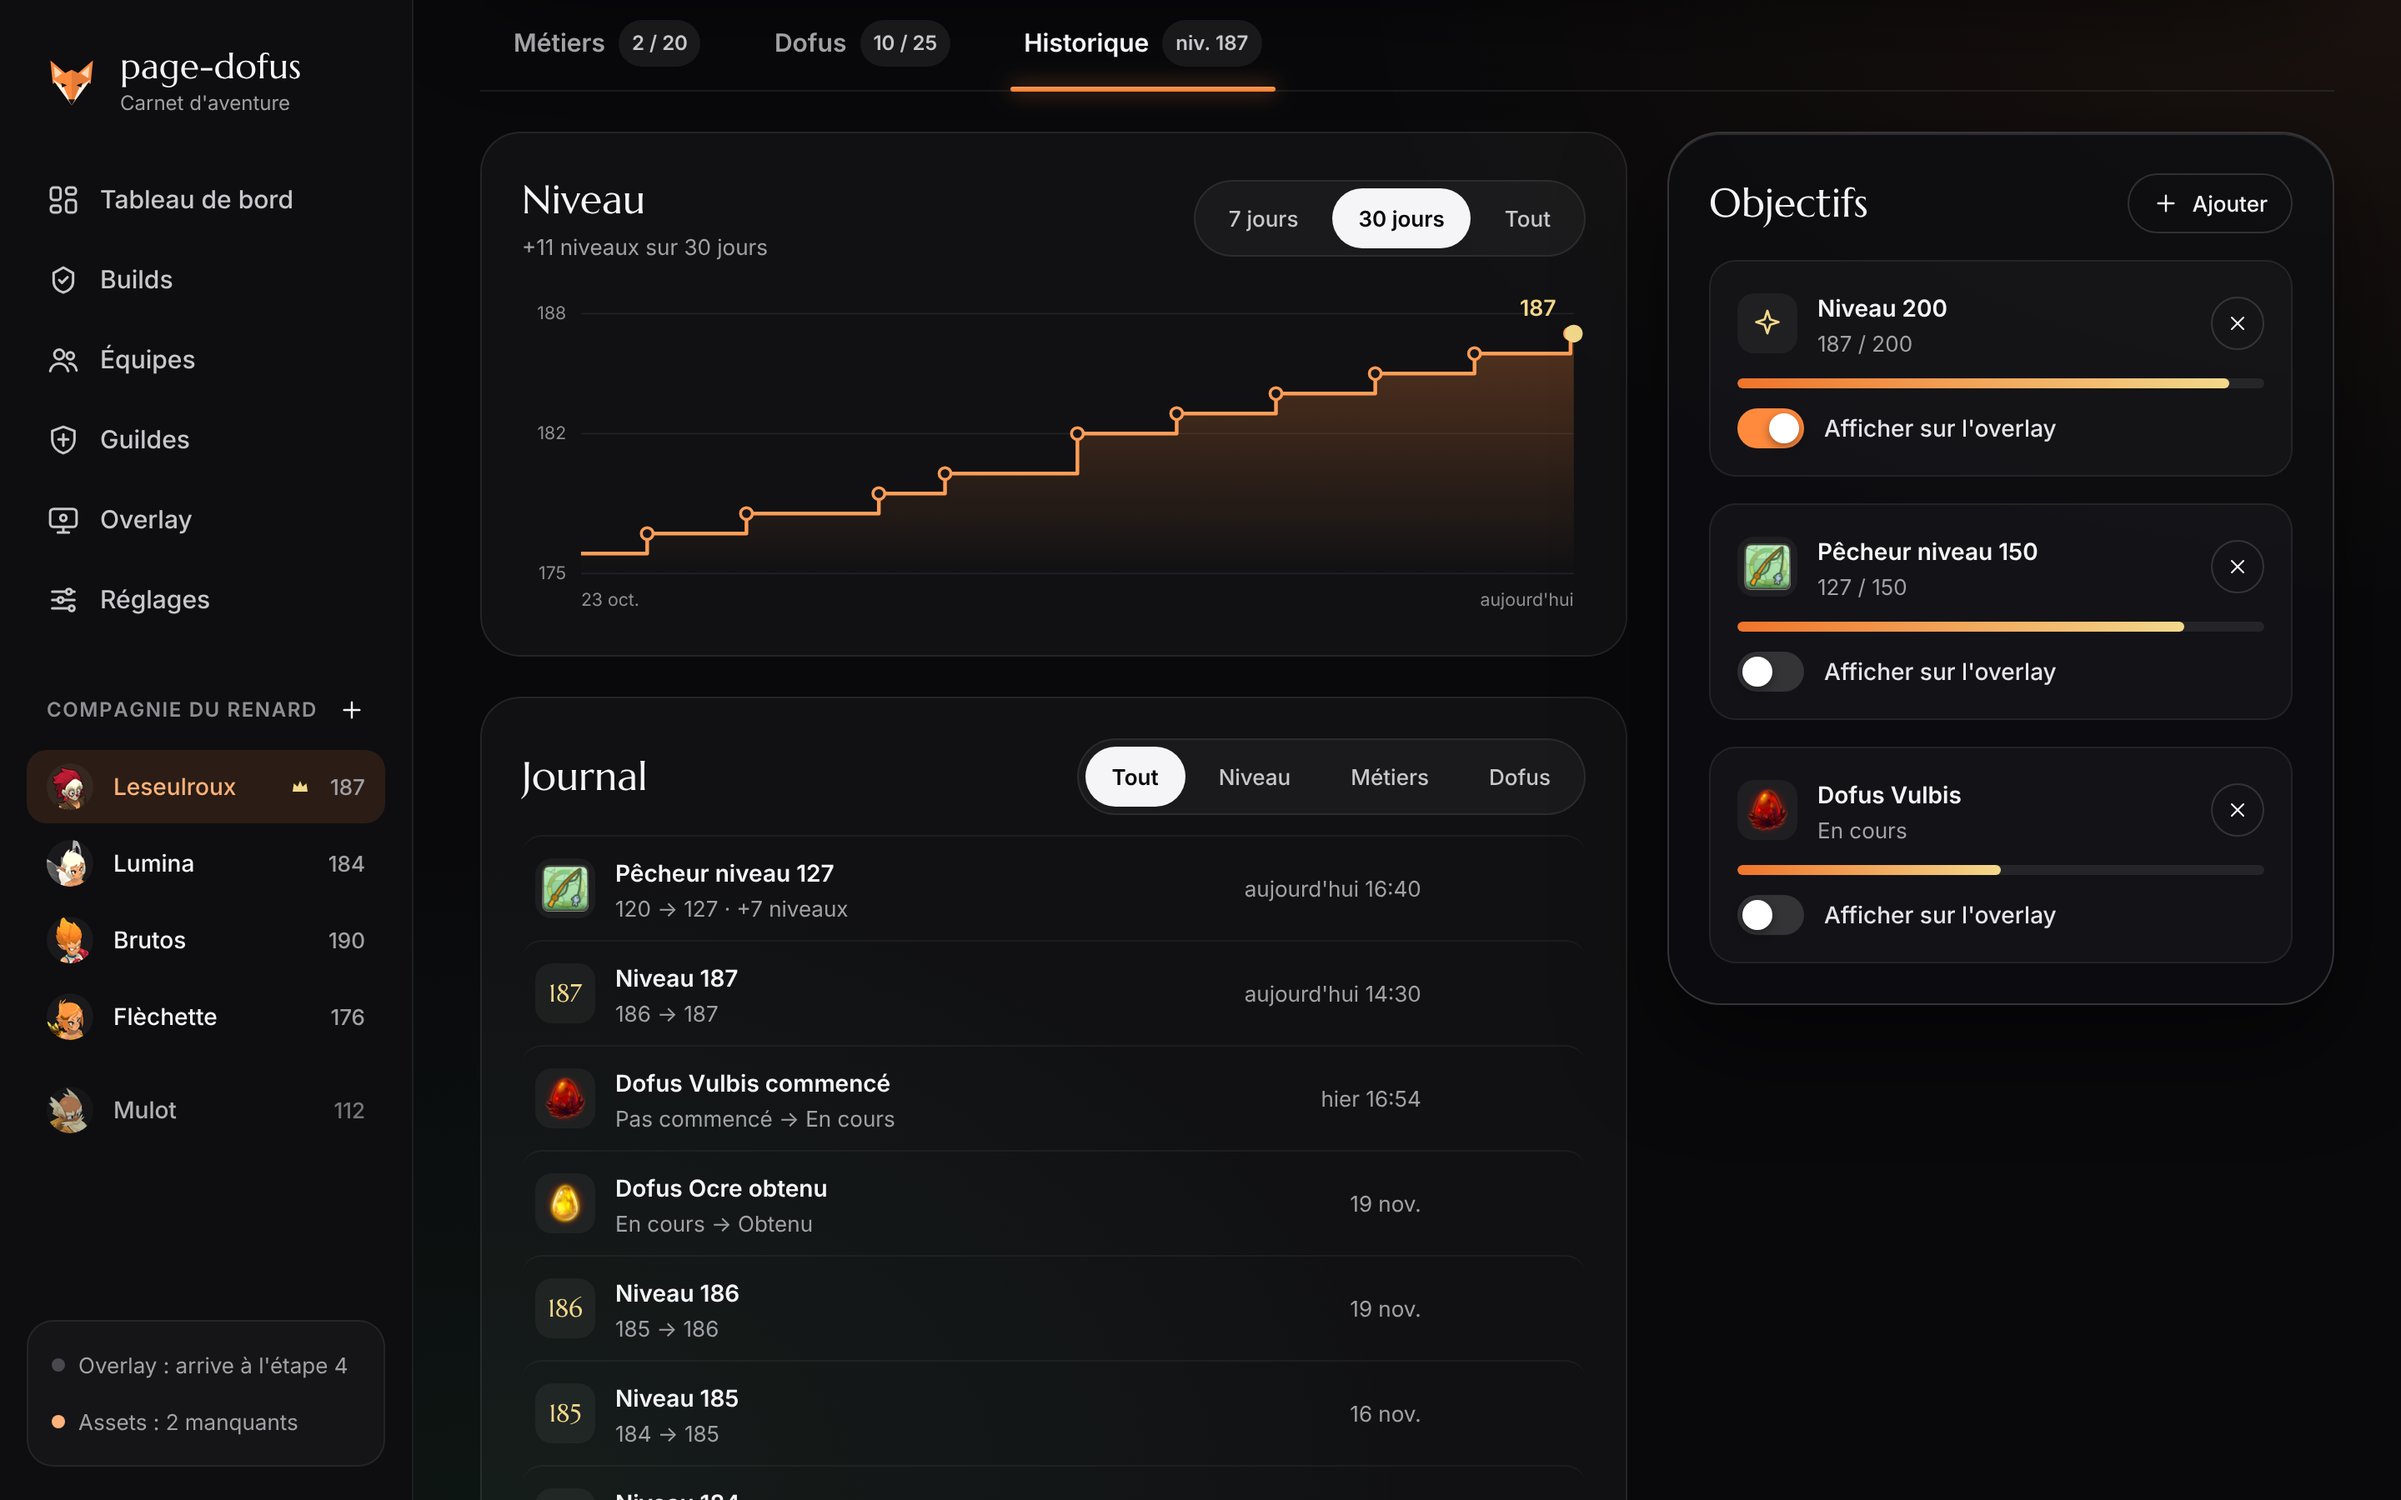
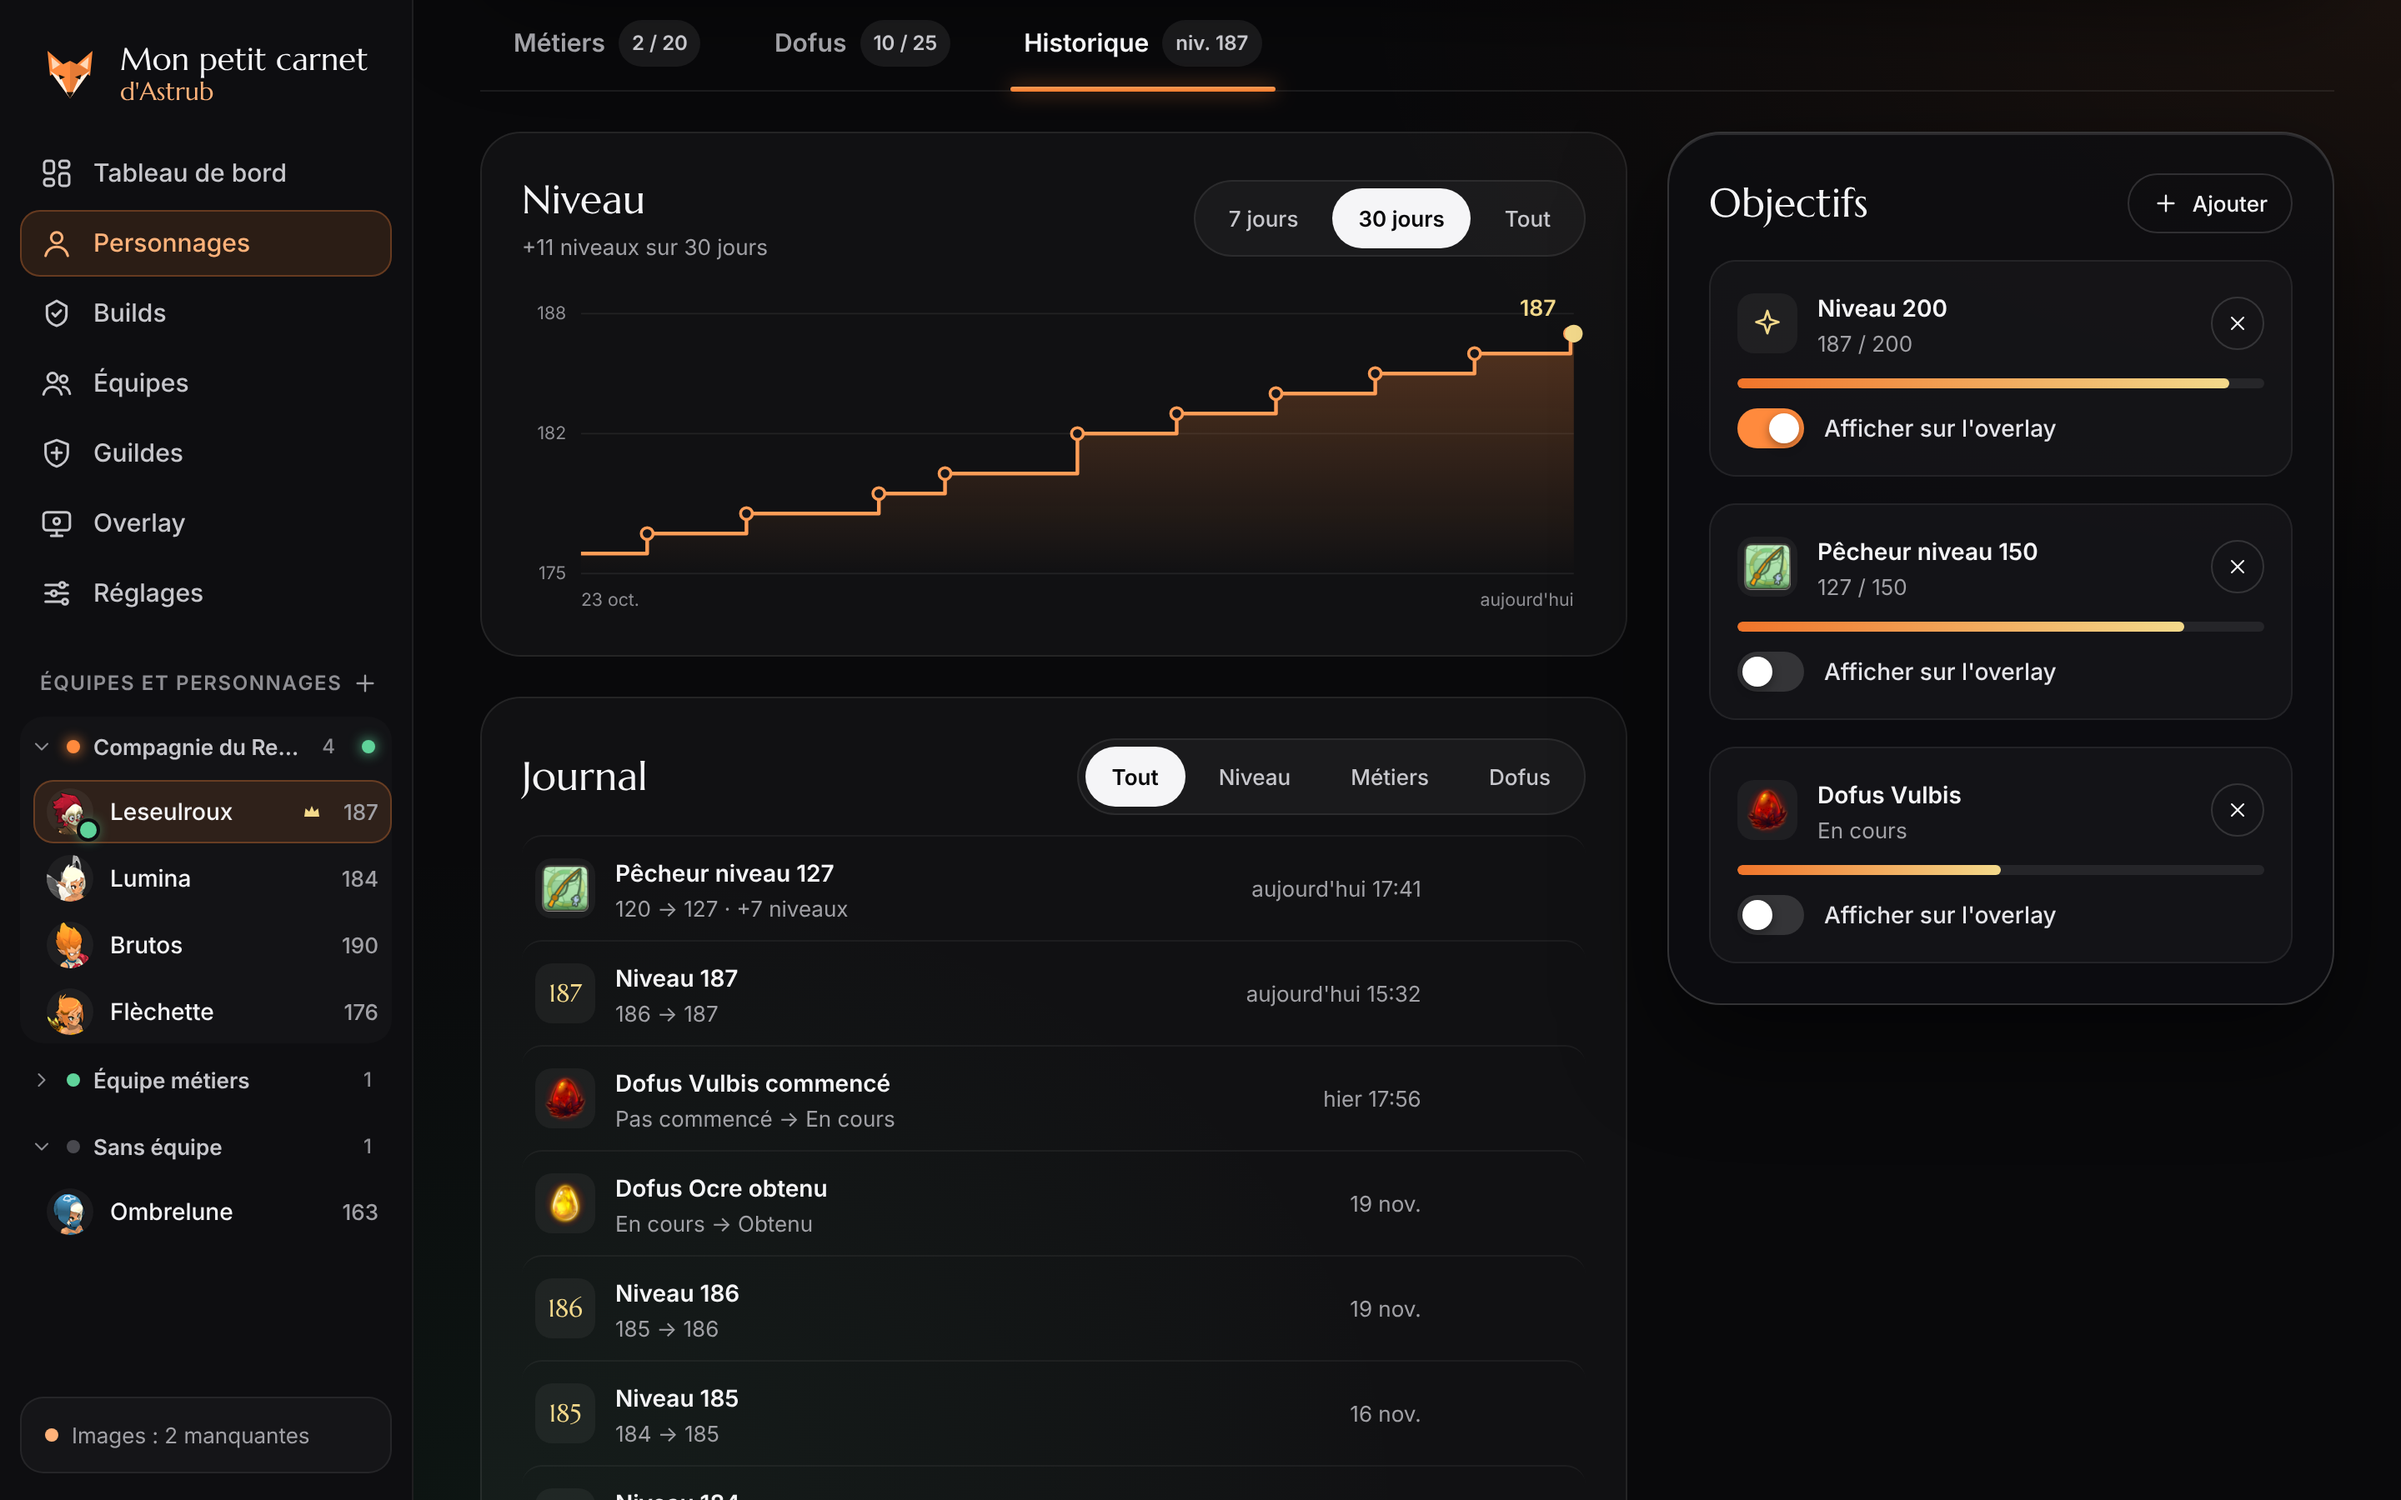
update readme and captures

diff --git a/README.md b/README.md
@@ -2,7 +2,7 @@
   <img src="captures/icone.png" width="96" alt="">
 </p>
 
-<h1 align="center">page-dofus</h1>
+<h1 align="center">Mon petit carnet d'Astrub</h1>
 
 <p align="center">
   Le carnet d'aventure Dofus de <a href="https://twitch.tv/leseulrouxx">Leseulroux</a> : suivre ses personnages, son équipe, ses métiers et ses Dofus, et les afficher en direct sur le stream.
@@ -13,12 +13,12 @@
 </p>
 
 <p align="center">
-  <img src="captures/tableau-de-bord.png" width="900" alt="Tableau de bord de page-dofus">
+  <img src="captures/tableau-de-bord.png" width="900" alt="Tableau de bord de Mon petit carnet d'Astrub">
 </p>
 
-## Ce que fait page-dofus
+## Ce que fait Mon petit carnet d'Astrub
 
-page-dofus est une application Windows pensée pour les joueurs de Dofus 3 qui streament.
+Mon petit carnet d'Astrub est une application Windows pensée pour les joueurs de Dofus 3 qui streament.
 
 - **Carnet de personnages** : niveau, métiers, Dofus obtenus ou en cours, pour un personnage seul ou une équipe multicompte.
 - **Overlay Streamlabs** : une fiche compacte qui tourne entre plusieurs pages (personnage, Dofus, métiers, équipement), et des animations plein écran quand tu montes de niveau ou obtiens un Dofus.
@@ -31,7 +31,7 @@ page-dofus est une application Windows pensée pour les joueurs de Dofus 3 qui s
 |---|---|---|
 | 0.1 | Base : stockage, référentiel du jeu, images, réglages | Disponible |
 | 0.2 | Personnages, équipes, guildes | Disponible |
-| 0.3 | Métiers, Dofus, historique et objectifs (0.3.0) · builds (0.3.1) | En cours |
+| 0.3 | Métiers, Dofus, historique, objectifs, builds, personnages | Disponible |
 | 0.4 | Overlay Streamlabs et événements | À venir |
 | 0.5 | Installeur et mises à jour automatiques | À venir |
 
@@ -41,6 +41,10 @@ page-dofus est une application Windows pensée pour les joueurs de Dofus 3 qui s
 <p align="center">
   <img src="captures/fiche-dofus.png" width="440" alt="Onglet Dofus">
   <img src="captures/fiche-historique.png" width="440" alt="Onglet Historique">
+</p>
+<p align="center">
+  <img src="captures/builds.png" width="440" alt="Éditeur de build">
+  <img src="captures/personnages.png" width="440" alt="Écran Personnages">
 </p>
 
 ## Installer
@@ -66,8 +70,8 @@ Supprime le dossier de l'application, et `%APPDATA%\page-dofus` si tu veux aussi
 
 ## Mentions
 
-page-dofus est un projet de fan, gratuit et non officiel. Il n'est ni affilié à Ankama, ni approuvé par Ankama. Dofus et les éléments du jeu sont des marques et des créations d'Ankama.
+Mon petit carnet d'Astrub est un projet de fan, gratuit et non officiel. Il n'est ni affilié à Ankama, ni approuvé par Ankama. Dofus et les éléments du jeu sont des marques et des créations d'Ankama.
 
-page-dofus intègre des composants open source (Wails, React, Go, polices Inter et Marcellus) ; leurs licences sont regroupées dans [AVIS-TIERS.md](AVIS-TIERS.md).
+Mon petit carnet d'Astrub intègre des composants open source (Wails, React, Go, polices Inter et Marcellus) ; leurs licences sont regroupées dans [AVIS-TIERS.md](AVIS-TIERS.md). Les données des équipements viennent de l'API publique [dofusdude](https://dofusdu.de).
 
 © Leseulroux. Tous droits réservés : l'application est libre de téléchargement et d'utilisation, mais son code n'est pas publié.
